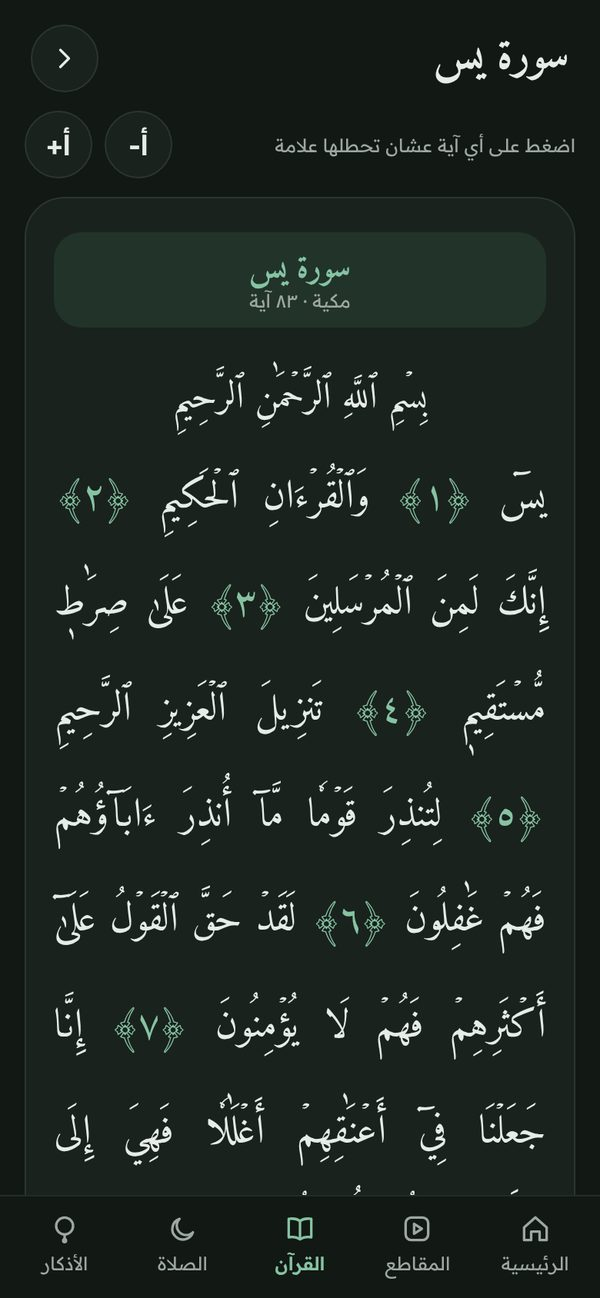
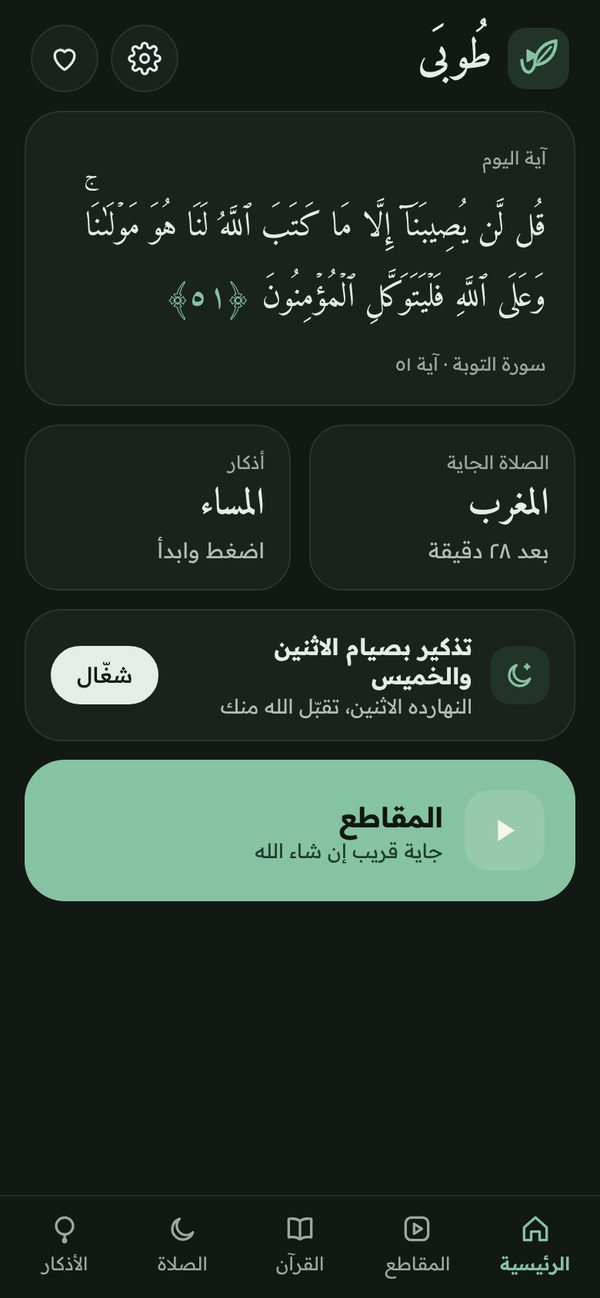
Home: optional Monday/Thursday fasting reminder (with Android notification the night before); fresh site screenshots
Claude-Session: https://claude.ai/code/session_01L6yT9rLhGyMKAZ6YHQMtLd

diff --git a/web/index.html b/web/index.html
@@ -165,6 +165,11 @@ svg.i{width:22px;height:22px;fill:none;stroke:currentColor;stroke-width:1.8;stro
       <button class="mini" data-go="prayer"><span class="small">الصلاة الجاية</span><b id="homeNext">—</b><span class="muted" id="homeNextIn"></span></button>
       <button class="mini" data-go="azkar"><span class="small">أذكار</span><b id="homeAzkar">الصباح</b><span class="muted">اضغط وابدأ</span></button>
     </div>
+    <div class="card" id="fastCard" style="display:flex;align-items:center;gap:12px;padding:14px 16px">
+      <span class="num" aria-hidden="true"><svg class="i" viewBox="0 0 24 24"><path d="M19 14.5A7.5 7.5 0 1 1 9.5 5a6 6 0 0 0 9.5 9.5z"/><path d="M17 4.5v3M15.5 6h3"/></svg></span>
+      <span style="flex:1;display:flex;flex-direction:column;gap:2px"><b style="font-size:15px">تذكير بصيام الاثنين والخميس</b><span class="muted" id="fastTxt" style="font-size:13px"></span></span>
+      <button class="chip" id="fastToggle" aria-pressed="false" aria-label="تذكير بصيام الاثنين والخميس">مقفول</button>
+    </div>
     <button class="hero" data-go="clips" style="border:0;text-align:right;cursor:pointer;display:flex;align-items:center;gap:14px;font-family:inherit">
       <span style="width:52px;height:52px;border-radius:16px;background:rgba(247,244,236,.15);display:flex;align-items:center;justify-content:center;flex-shrink:0"><svg width="26" height="26" viewBox="0 0 24 24" fill="#F7F4EC"><path d="M8 5.5v13l10-6.5z"/></svg></span>
       <span style="display:flex;flex-direction:column;gap:2px"><b style="font-size:18px">المقاطع</b><small id="clipsTeaser">قلّب في مقاطع قصيرة تنفعك</small></span>
@@ -645,6 +650,44 @@ $("#share").addEventListener("click", async () => {
   try { if (navigator.share) await navigator.share(data); else { await navigator.clipboard.writeText(data.url); toast("نسخنا الرابط"); } } catch (e) {}
 });
 
+// ---------- تذكير صيام الاثنين والخميس ----------
+const FAST_IDS = Array.from({ length: 8 }, (_, i) => ({ id: 2000 + i }));
+function renderFast() {
+  const on = store.get("fastOn", false); const day = new Date().getDay();
+  $("#fastToggle").setAttribute("aria-pressed", String(on)); $("#fastToggle").textContent = on ? "شغّال" : "مقفول";
+  let t = "مقفول، شغّله لو حابب";
+  if (on) {
+    if (day === 0) t = "بكرة الاثنين، ناوي تصوم؟";
+    else if (day === 3) t = "بكرة الخميس، ناوي تصوم؟";
+    else if (day === 1 || day === 4) t = `النهارده ${day === 1 ? "الاثنين" : "الخميس"}، تقبّل الله منك`;
+    else t = LN() ? "هنفكّرك بالليل قبلها الساعة ٩" : "هيظهرلك التذكير هنا قبلها بيوم";
+  }
+  $("#fastTxt").textContent = t;
+}
+async function scheduleFast() {
+  const ln = LN(); if (!ln) return;
+  try {
+    try { await ln.cancel({ notifications: FAST_IDS }); } catch (e) {}
+    if (!store.get("fastOn", false)) return;
+    let perm = await ln.checkPermissions(); if (perm.display !== "granted") perm = await ln.requestPermissions();
+    if (perm.display !== "granted") return;
+    try { await ln.createChannel({ id: "fast", name: "تذكير الصيام", importance: 4, sound: "default", vibration: true }); } catch (e) {}
+    const list = []; const now = new Date();
+    for (let d = 0; d < 28 && list.length < 8; d++) {
+      const at = new Date(now); at.setDate(now.getDate() + d); at.setHours(21, 0, 0, 0);
+      const wd = at.getDay(); if ((wd !== 0 && wd !== 3) || at <= now) continue;
+      const next = wd === 0 ? "الاثنين" : "الخميس";
+      list.push({ id: 2000 + list.length, title: "تذكير بالصيام", body: `بكرة ${next}، ناوي تصوم؟`, channelId: "fast", schedule: { at, allowWhileIdle: true } });
+    }
+    if (list.length) await ln.schedule({ notifications: list });
+  } catch (e) {}
+}
+$("#fastToggle").addEventListener("click", () => {
+  const on = !store.get("fastOn", false); store.set("fastOn", on); renderFast(); scheduleFast();
+  toast(on ? "تمام، هنفكّرك قبل الاثنين والخميس" : "قفلنا تذكير الصيام");
+});
+document.addEventListener("visibilitychange", () => { if (document.visibilityState === "visible") { renderFast(); scheduleFast(); } });
+
 // ---------- الوضع الليلي ----------
 const darkMQ = window.matchMedia ? matchMedia("(prefers-color-scheme: dark)") : null;
 function applyTheme() {
@@ -662,7 +705,7 @@ $("#sMinus").addEventListener("click", () => { qSize = Math.max(18, qSize - 2); 
 
 // ---------- البداية ----------
 renderClips(); renderSurahList(""); renderPrayer(); tick.ready = true;
-renderNotif(); scheduleAdhan(); setTimeout(() => { renderNotif(); scheduleAdhan(); }, 1500);
+renderNotif(); scheduleAdhan(); renderFast(); scheduleFast(); setTimeout(() => { renderNotif(); scheduleAdhan(); renderFast(); scheduleFast(); }, 1500);
 go((location.hash || "#home").slice(1));
 window.addEventListener("hashchange", () => go(location.hash.slice(1)));
 if ("serviceWorker" in navigator) { window.addEventListener("load", () => navigator.serviceWorker.register("sw.js").catch(() => {})); }

diff --git a/site/index.html b/site/index.html
@@ -177,7 +177,7 @@ footer{padding:40px 0 60px;color:var(--muted);font-size:14px;text-align:center}
           <div><div class="ic"><svg viewBox="0 0 24 24"><rect x="4" y="4" width="16" height="16" rx="4"/><path d="M10 8.5v7l5.5-3.5z"/></svg></div>
             <h3>كل يوم حاجة تنفعك</h3>
             <p>أول ما تفتح التطبيق تلاقي آية اليوم، والصلاة الجاية والوقت الباقي عليها، وأذكار الوقت اللي انت فيه. والمقاطع القصيرة بتقلّب فيها لفوق زي تيك توك، من القنوات الرسمية للمشايخ.</p>
-            <ul><li>آية جديدة كل يوم</li><li>مقاطع بتشتغل لوحدها وانت بتقلّب</li><li>احفظ المقاطع اللي عجبتك وشاركها</li></ul>
+            <ul><li>آية جديدة كل يوم</li><li>تذكير بصيام الاثنين والخميس لو حابب</li><li>مقاطع بتشتغل لوحدها وانت بتقلّب</li><li>احفظ المقاطع اللي عجبتك وشاركها</li></ul>
           </div>
         </div>
         <div class="feature reveal">
